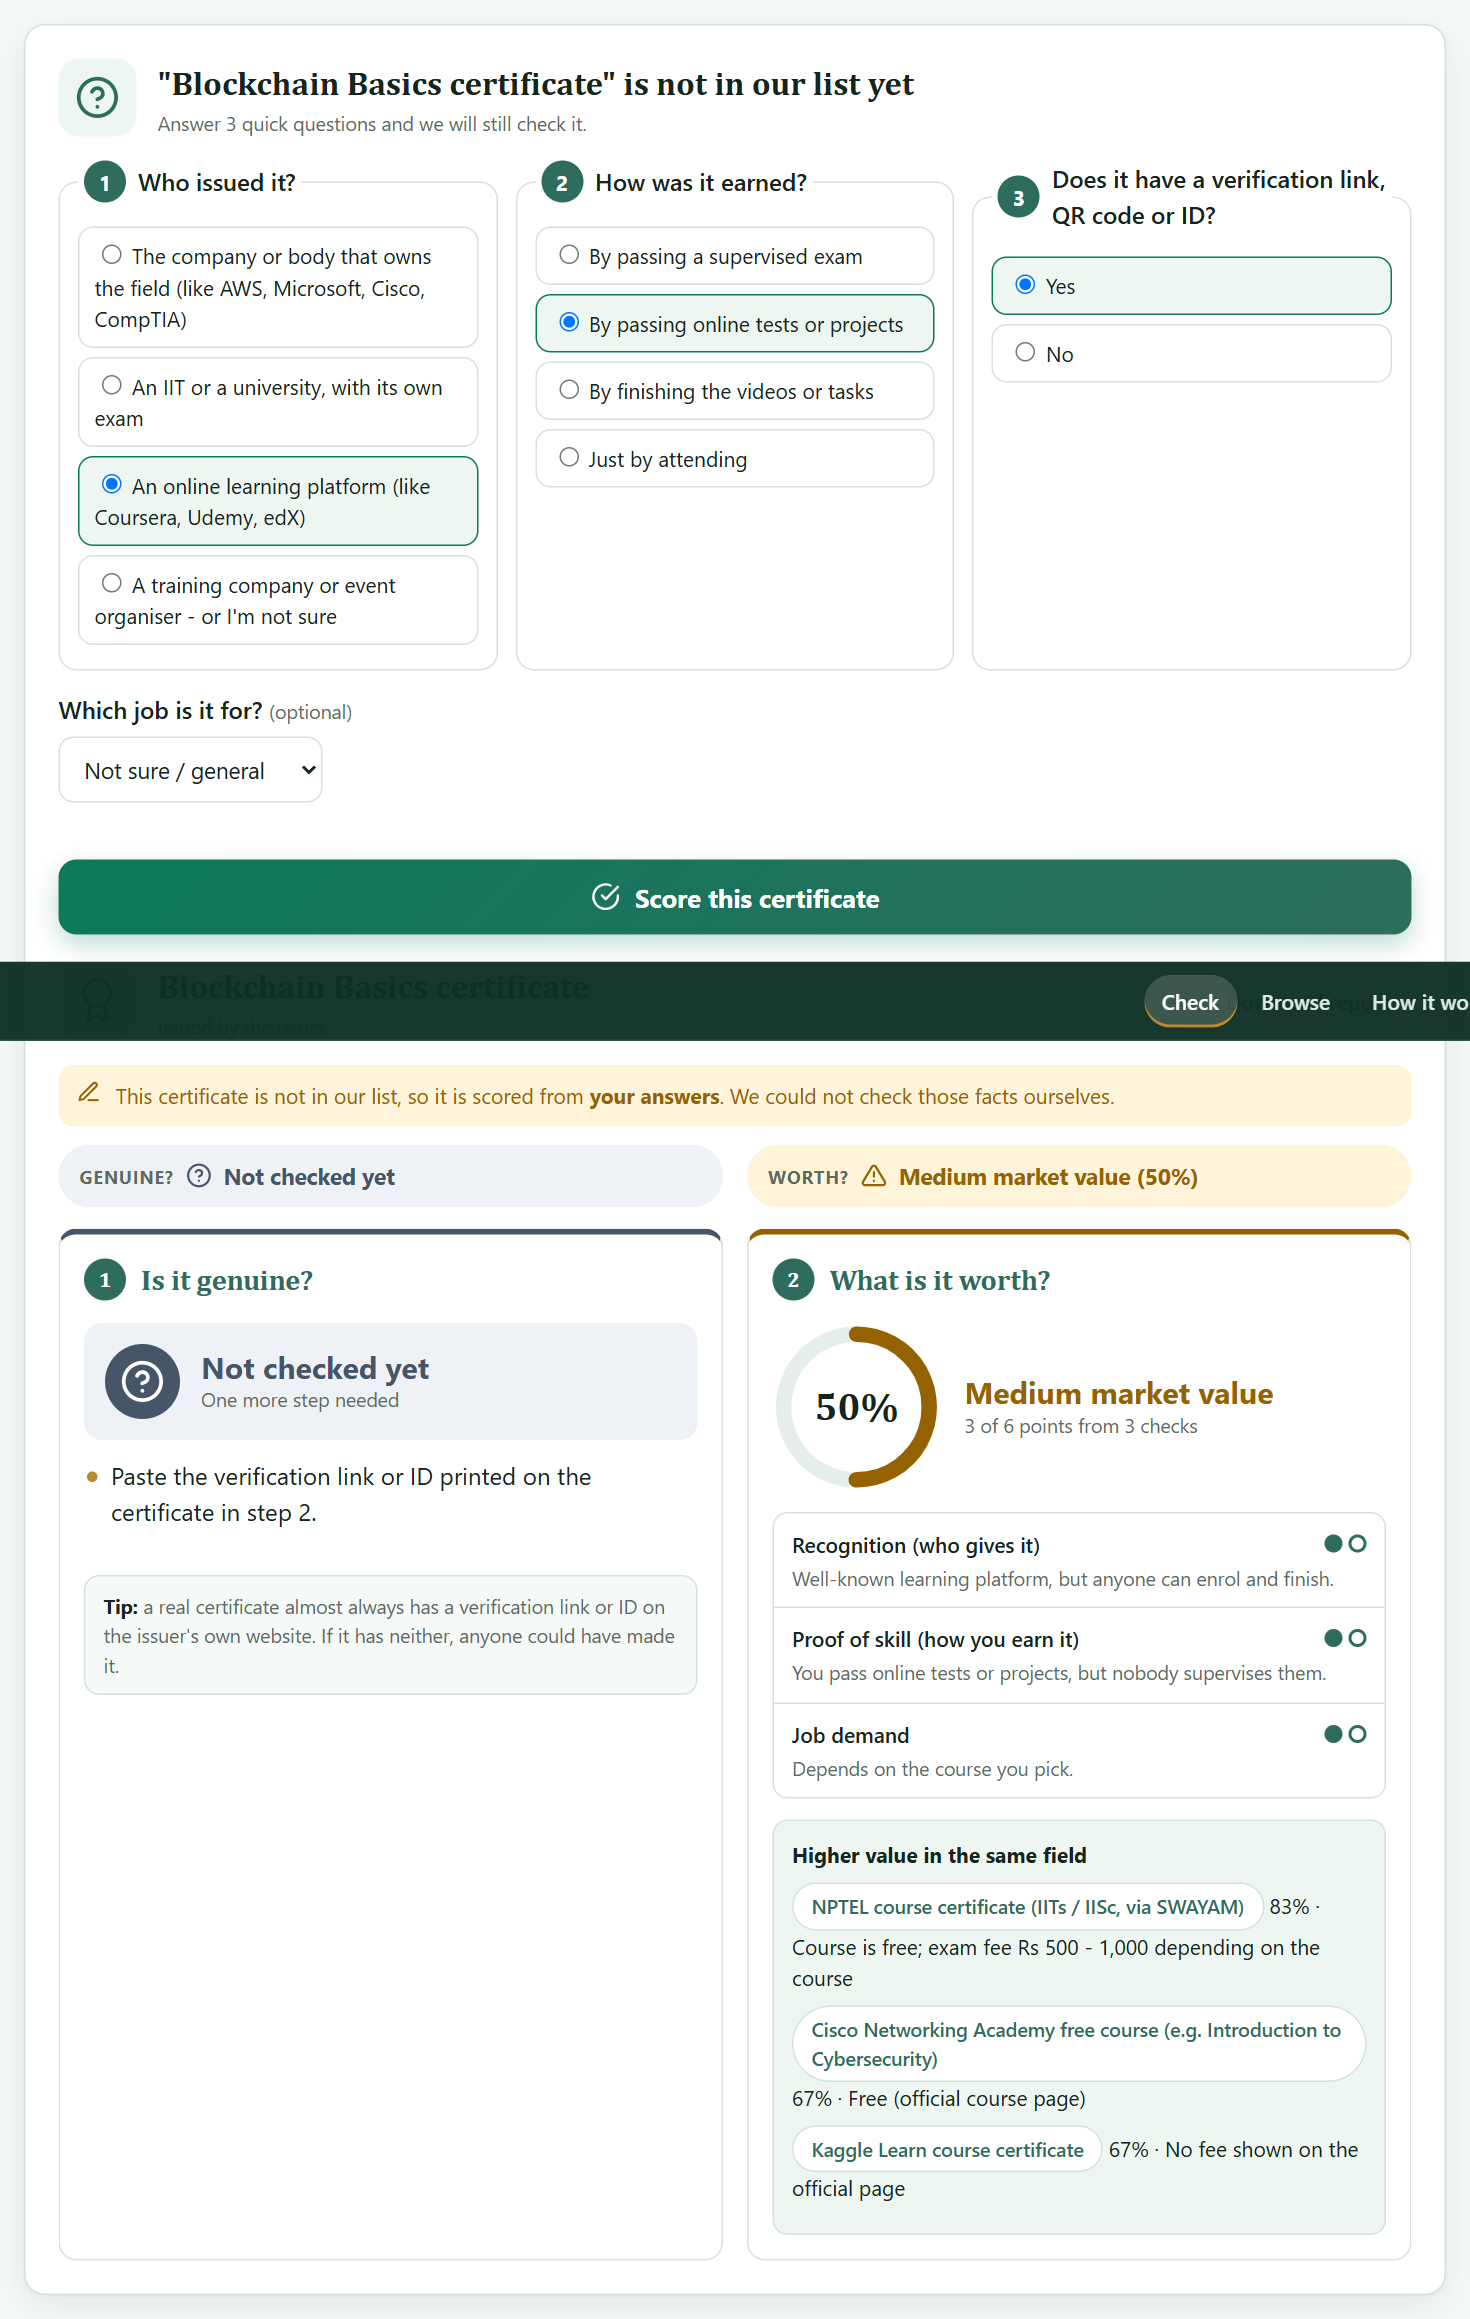
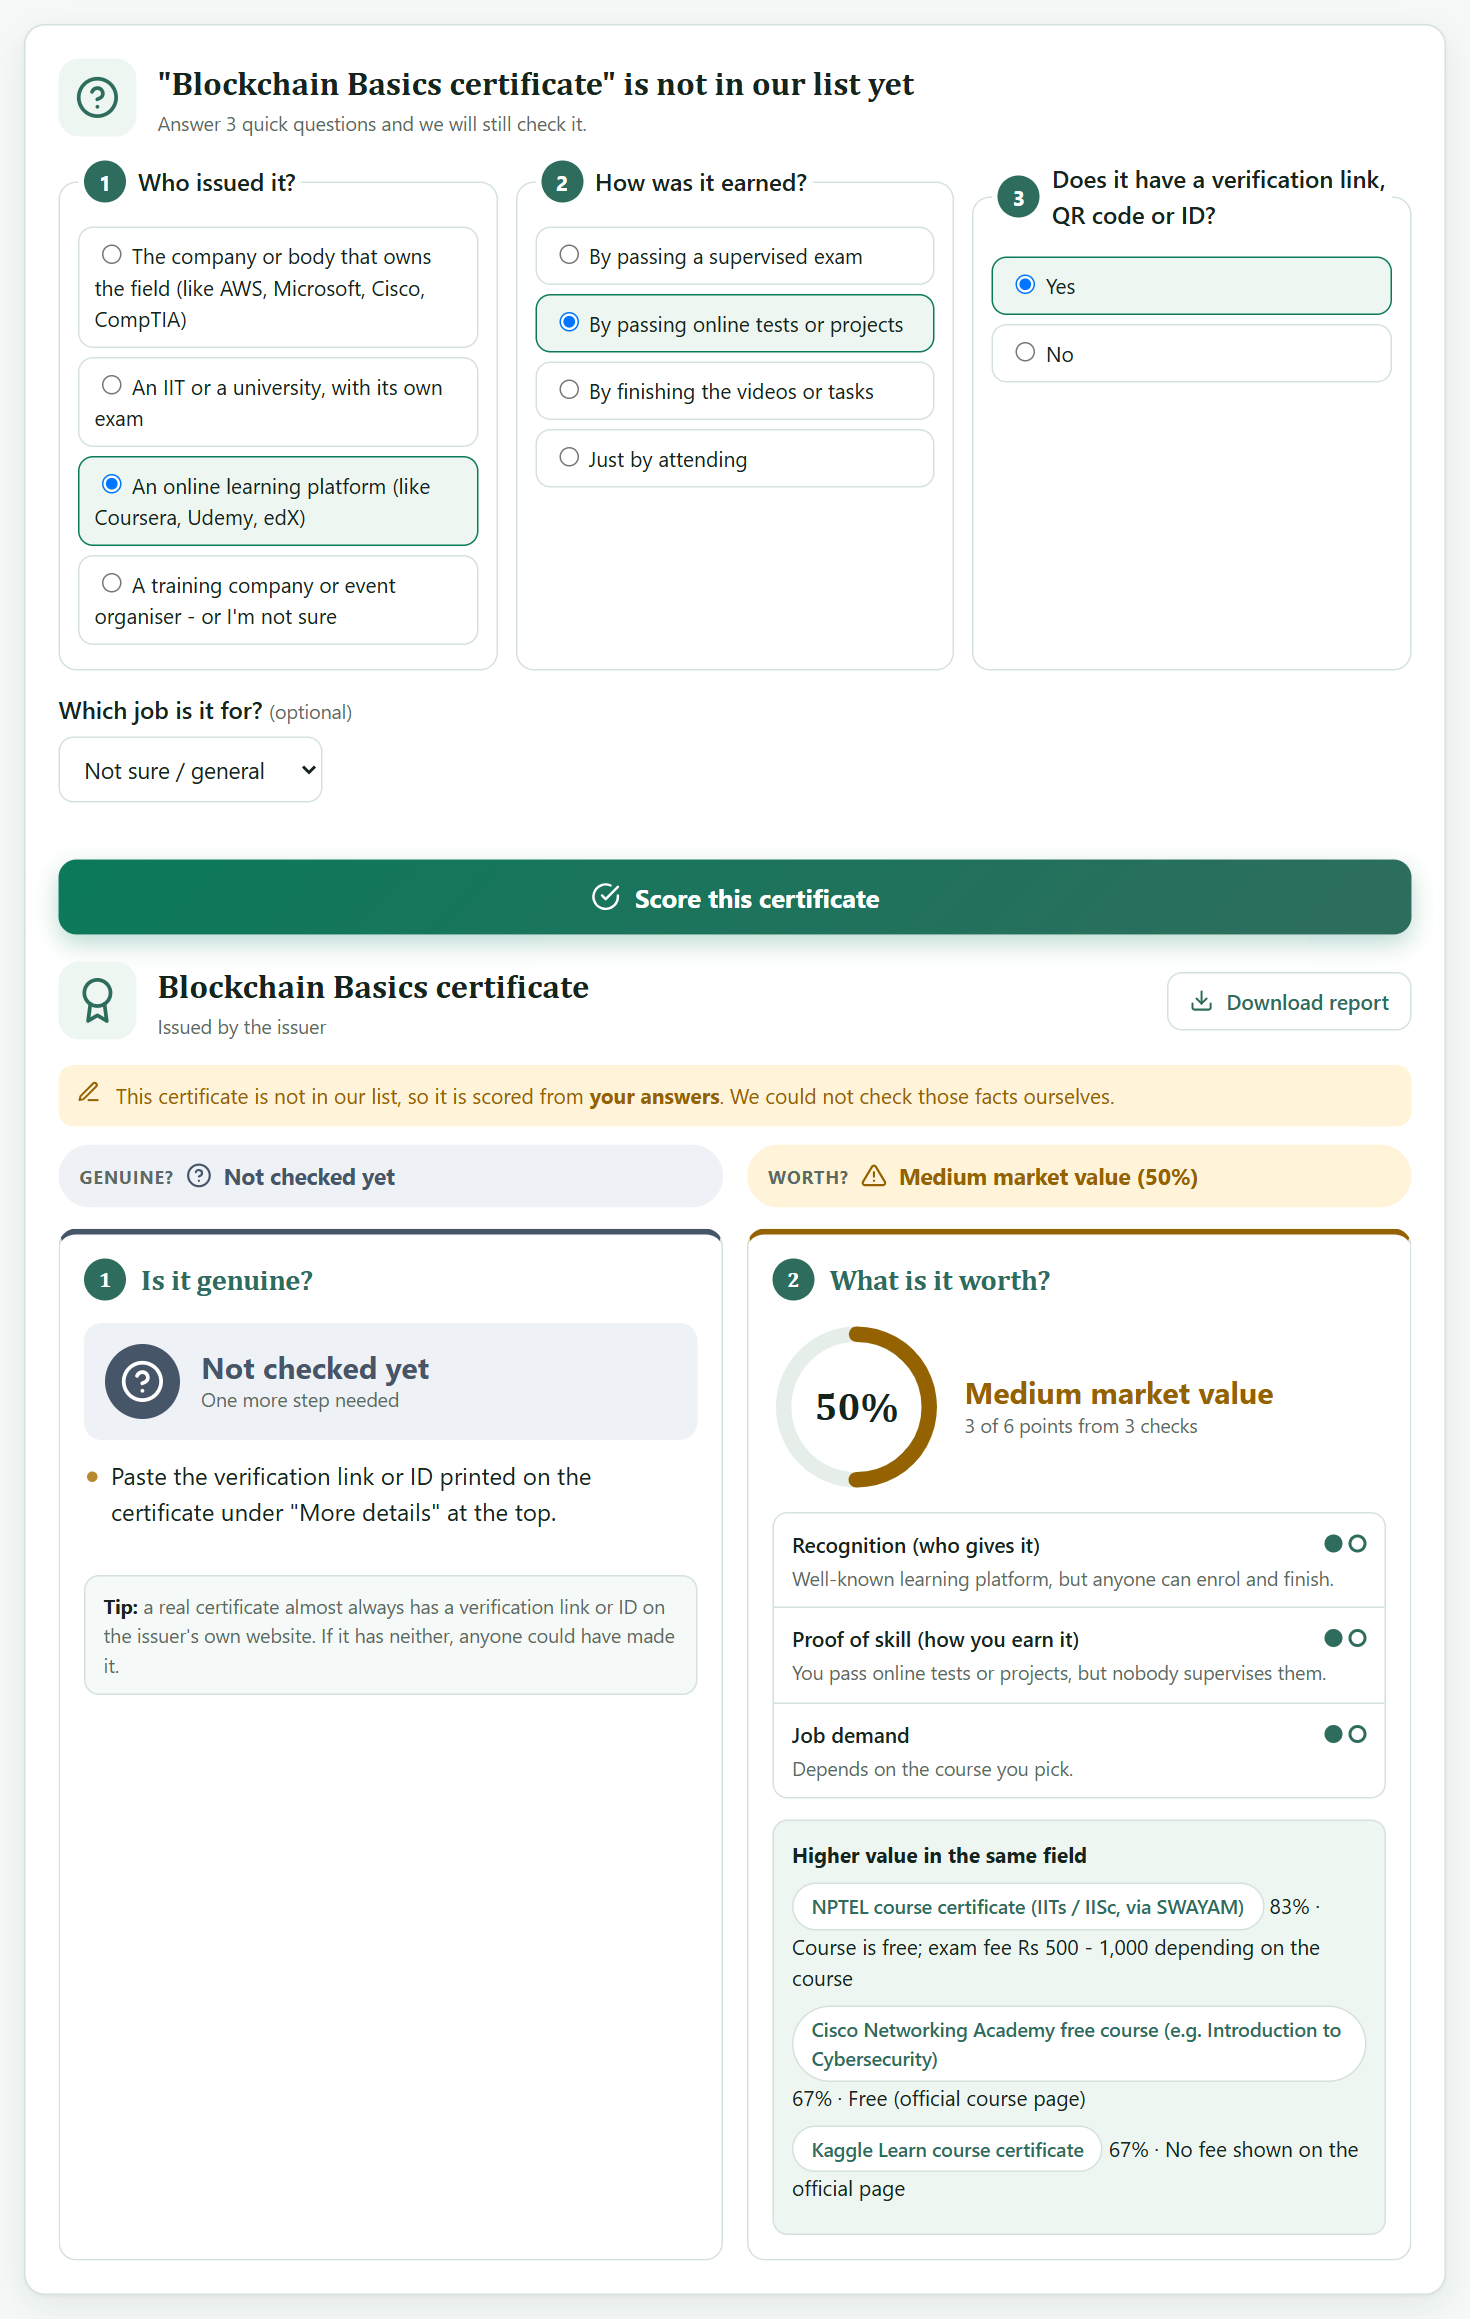
Fix example details staying for the next certificate, retake screenshots

Changed region(s): [[0.0, 0.4036, 1.0, 0.4657]]

diff --git a/app.js b/app.js
@@ -106,10 +106,7 @@ function setup() {
   for (const a of document.querySelectorAll(".try")) {
     a.addEventListener("click", e => {
       e.preventDefault();
-      $("certInput").value = a.dataset.cert;
-      $("linkInput").value = a.dataset.link || "";
-      $("issuerInput").value = a.dataset.issuer || "";
-      $("moreBox").open = $("linkInput").value !== "" || $("issuerInput").value !== "";
+      fillForm(a.dataset.cert, a.dataset.link || "", a.dataset.issuer || "");
       fileNote("");
       showDetect();
       runCheck(true);
@@ -200,10 +197,7 @@ function openHash() {
     return;
   }
   // a shared result is never shown as it was: the same check is run again, here and now
-  $("certInput").value = shared.name || shared.link;
-  $("linkInput").value = shared.name ? shared.link : "";
-  $("issuerInput").value = shared.issuer;
-  $("moreBox").open = $("linkInput").value !== "" || shared.issuer !== "";
+  fillForm(shared.name || shared.link, shared.name ? shared.link : "", shared.issuer);
   showDetect();
   runCheck(true);
 }
@@ -278,6 +272,35 @@ function readForm() {
   return { name: inBox ? "" : typed, link: inBox ? typed : $("linkInput").value.trim(), issuer: $("issuerInput").value.trim() };
 }
 
+// what the site itself put in the form (an example, a recent check, a shared link).
+// It belongs to that one certificate, so it must not stay behind and be judged with the next one.
+let filled = { name: "", link: "", issuer: "" };
+
+function fillForm(name, link, issuer) {
+  $("certInput").value = name;
+  $("linkInput").value = link;
+  $("issuerInput").value = issuer;
+  $("moreBox").open = link !== "" || issuer !== "";
+  filled = { name: name, link: link, issuer: issuer };
+}
+
+// something new was typed in the big box: take away the details we filled in, keep the ones typed by hand
+function dropFilledDetails() {
+  let dropped = false;
+  if (filled.link !== "" && $("linkInput").value === filled.link) { $("linkInput").value = ""; dropped = true; }
+  if (filled.issuer !== "" && $("issuerInput").value === filled.issuer) { $("issuerInput").value = ""; dropped = true; }
+  if (dropped && $("linkInput").value === "" && $("issuerInput").value === "") $("moreBox").open = false;
+  filled = { name: "", link: "", issuer: "" };
+}
+
+// a certificate file is being read: an example that is still in the form untouched is not this certificate
+function clearUntouchedFill() {
+  const same = filled.name !== "" && $("certInput").value === filled.name &&
+    $("linkInput").value === filled.link && $("issuerInput").value === filled.issuer;
+  if (same) fillForm("", "", "");
+  filled = { name: "", link: "", issuer: "" };
+}
+
 const HINTS = [
   "Paste a link or ID, or type the certificate's name",
   "https://www.credly.com/badges/...",
@@ -291,7 +314,7 @@ let suggestAt = -1;      // which suggestion the arrow keys are on (-1 = none)
 
 function setupSmartBox() {
   const box = $("certInput");
-  box.addEventListener("input", () => { showDetect(); showSuggest(); });
+  box.addEventListener("input", () => { dropFilledDetails(); showDetect(); showSuggest(); });
   box.addEventListener("focus", showSuggest);
   box.addEventListener("blur", () => setTimeout(hideSuggest, 150));     // let a click on a suggestion land first
   box.addEventListener("keydown", e => {
@@ -448,10 +471,7 @@ function showRecent() {
       e.preventDefault();
       const r = list[Number(a.dataset.i)];
       // a result that came from a link alone goes back into the big box as that link
-      $("certInput").value = r.name || r.link || r.label;
-      $("linkInput").value = r.name ? (r.link || "") : "";
-      $("issuerInput").value = r.issuer || "";
-      $("moreBox").open = $("linkInput").value !== "" || $("issuerInput").value !== "";
+      fillForm(r.name || r.link || r.label, r.name ? (r.link || "") : "", r.issuer || "");
       fileNote("");
       showDetect();
       runCheck(true);
@@ -610,6 +630,7 @@ function readFile(file) {
     fileNote("The QR reader didn't load (it needs an internet connection).", true);
     return;
   }
+  clearUntouchedFill();
   fileNote("Reading " + file.name + "...");
   if (ok.kind === "pdf") readPdf(file);
   else readImage(file);
@@ -1401,10 +1422,7 @@ function wirePicks() {
     a.dataset.wired = "yes";
     a.addEventListener("click", e => {
       e.preventDefault();
-      $("certInput").value = a.dataset.name;
-      $("linkInput").value = "";
-      $("issuerInput").value = "";
-      $("moreBox").open = false;
+      fillForm(a.dataset.name, "", "");
       fileNote("");
       showDetect();
       runCheck(true);

diff --git a/project-log.html b/project-log.html
@@ -71,6 +71,8 @@
           <td><b>Any certificate:</b> the big box now takes just a link. For Credly, Coursera and edX our server reads the issuer's own record - the certificate's name, its issuer, how it is earned and (on Credly) its skills - and never anything about the person. If that certificate is in our hand-checked list we use those facts; if not, we score it from the record: recognition from a new list of 71 recognised issuers (one line covers every certificate an issuer gives), proof of skill from the issuer's own words, quoted on the page, and job demand from the field its skills point to. An exam the record does not call supervised gets 1 point, not 2, and an issuer we don't recognise gets 0 and the page says so. Sites that host one kind of certificate (NPTEL, Udemy, Internshala...) name it from the link alone; for the rest the user types the name or answers three questions. The first number on the page now reads "Any certificate can be checked". <b>App-style page:</b> the navigation switches between four screens instead of scrolling one long page; one box takes a link, an ID or a name and says what it recognises while you type; certificates are suggested as you type (arrow keys and Enter work); a progress card shows while the issuer is asked; recent checks are kept in the browser and can be run again with one click; short messages confirm what just happened. 248 tests. Tried in a real browser against real public Coursera, edX and Credly certificates.</td></tr>
         <tr><td>6 Oct, ~6:30 AM</td><td>Make it look more like a real site: share a result, a home section, About / Privacy / Terms / Contact, and a "what we can verify" page - without overdoing it, because checking certificates is the main goal.</td>
           <td>The checker stays the first thing on screen. <b>Share:</b> every result (except one scored from three answers) has a Share button - copy a link, send a ready WhatsApp message, or save the result as a picture. The link holds only what to check, never the answer, so opening it runs the check again live; it sits after the # in the address, so the certificate's link is not sent to a web server when the page opens. <b>Home section:</b> under the checker, until a result is on screen - how it works in three steps, who it is for, and the sites it works with. <b>What we can verify:</b> a table on the How it works screen with one row per verification site and what the check does for each, drawn from the same data the checker uses, plus the list of 71 recognised issuers. <b>About, Privacy, Terms, Contact:</b> one screen, linked from the footer; the privacy section lists exactly what is sent to the server and what stays in the browser. Also fixed: the tab icon was served as plain text by our server. 268 tests.</td></tr>
+        <tr><td>6 Oct, ~8 AM</td><td>Check the live site as a visitor. The README screenshots do not look updated.</td>
+          <td>The pictures on GitHub were the newest files, but three were spoiled: the top bar was drawn across the middle of two tall pictures, and a pop-up message sat on the compare picture. All README pictures were taken again with the top bar held in place and pop-ups cleared. Two real fixes found on the way: the heading of a result scored from three answers was hidden under the top bar after scrolling, and one message still said "in step 2" although the page no longer has numbered steps (it now says under "More details" at the top). <b>A bug found by using the live site like a visitor:</b> an example fills the boxes under "More details" (the fake-university example fills the institute), and those stayed behind - so the next certificate pasted in the big box was also called a fake university. Now anything the site itself filled in (an example, a recent check, a shared link) is taken away when something new is typed or a certificate file is chosen; details typed by hand are kept. Checked on the local copy in a fresh browser: 17 of 17 steps right. 268 tests.</td></tr>
       </table>
     </section>
 

diff --git a/logic.js b/logic.js
@@ -526,7 +526,7 @@ function checkGenuineAny(input, hasLink, methods, fakeUnis) {
       result.reasons.push("A certificate with no verification link or ID has no record anyone can check. Anyone could have made it.");
     } else {
       result.verdict = "Not checked yet";
-      result.reasons.push("Paste the verification link or ID printed on the certificate in step 2.");
+      result.reasons.push("Paste the verification link or ID printed on the certificate under \"More details\" at the top.");
     }
     return result;
   }

diff --git a/style.css b/style.css
@@ -972,7 +972,7 @@ html {
 }
 
 /* a link from the navigation should not hide its section under the bar */
-section[id], #result, header[id] {
+section[id], #result, #customResult, header[id] {
   scroll-margin-top: 70px;
 }
 
